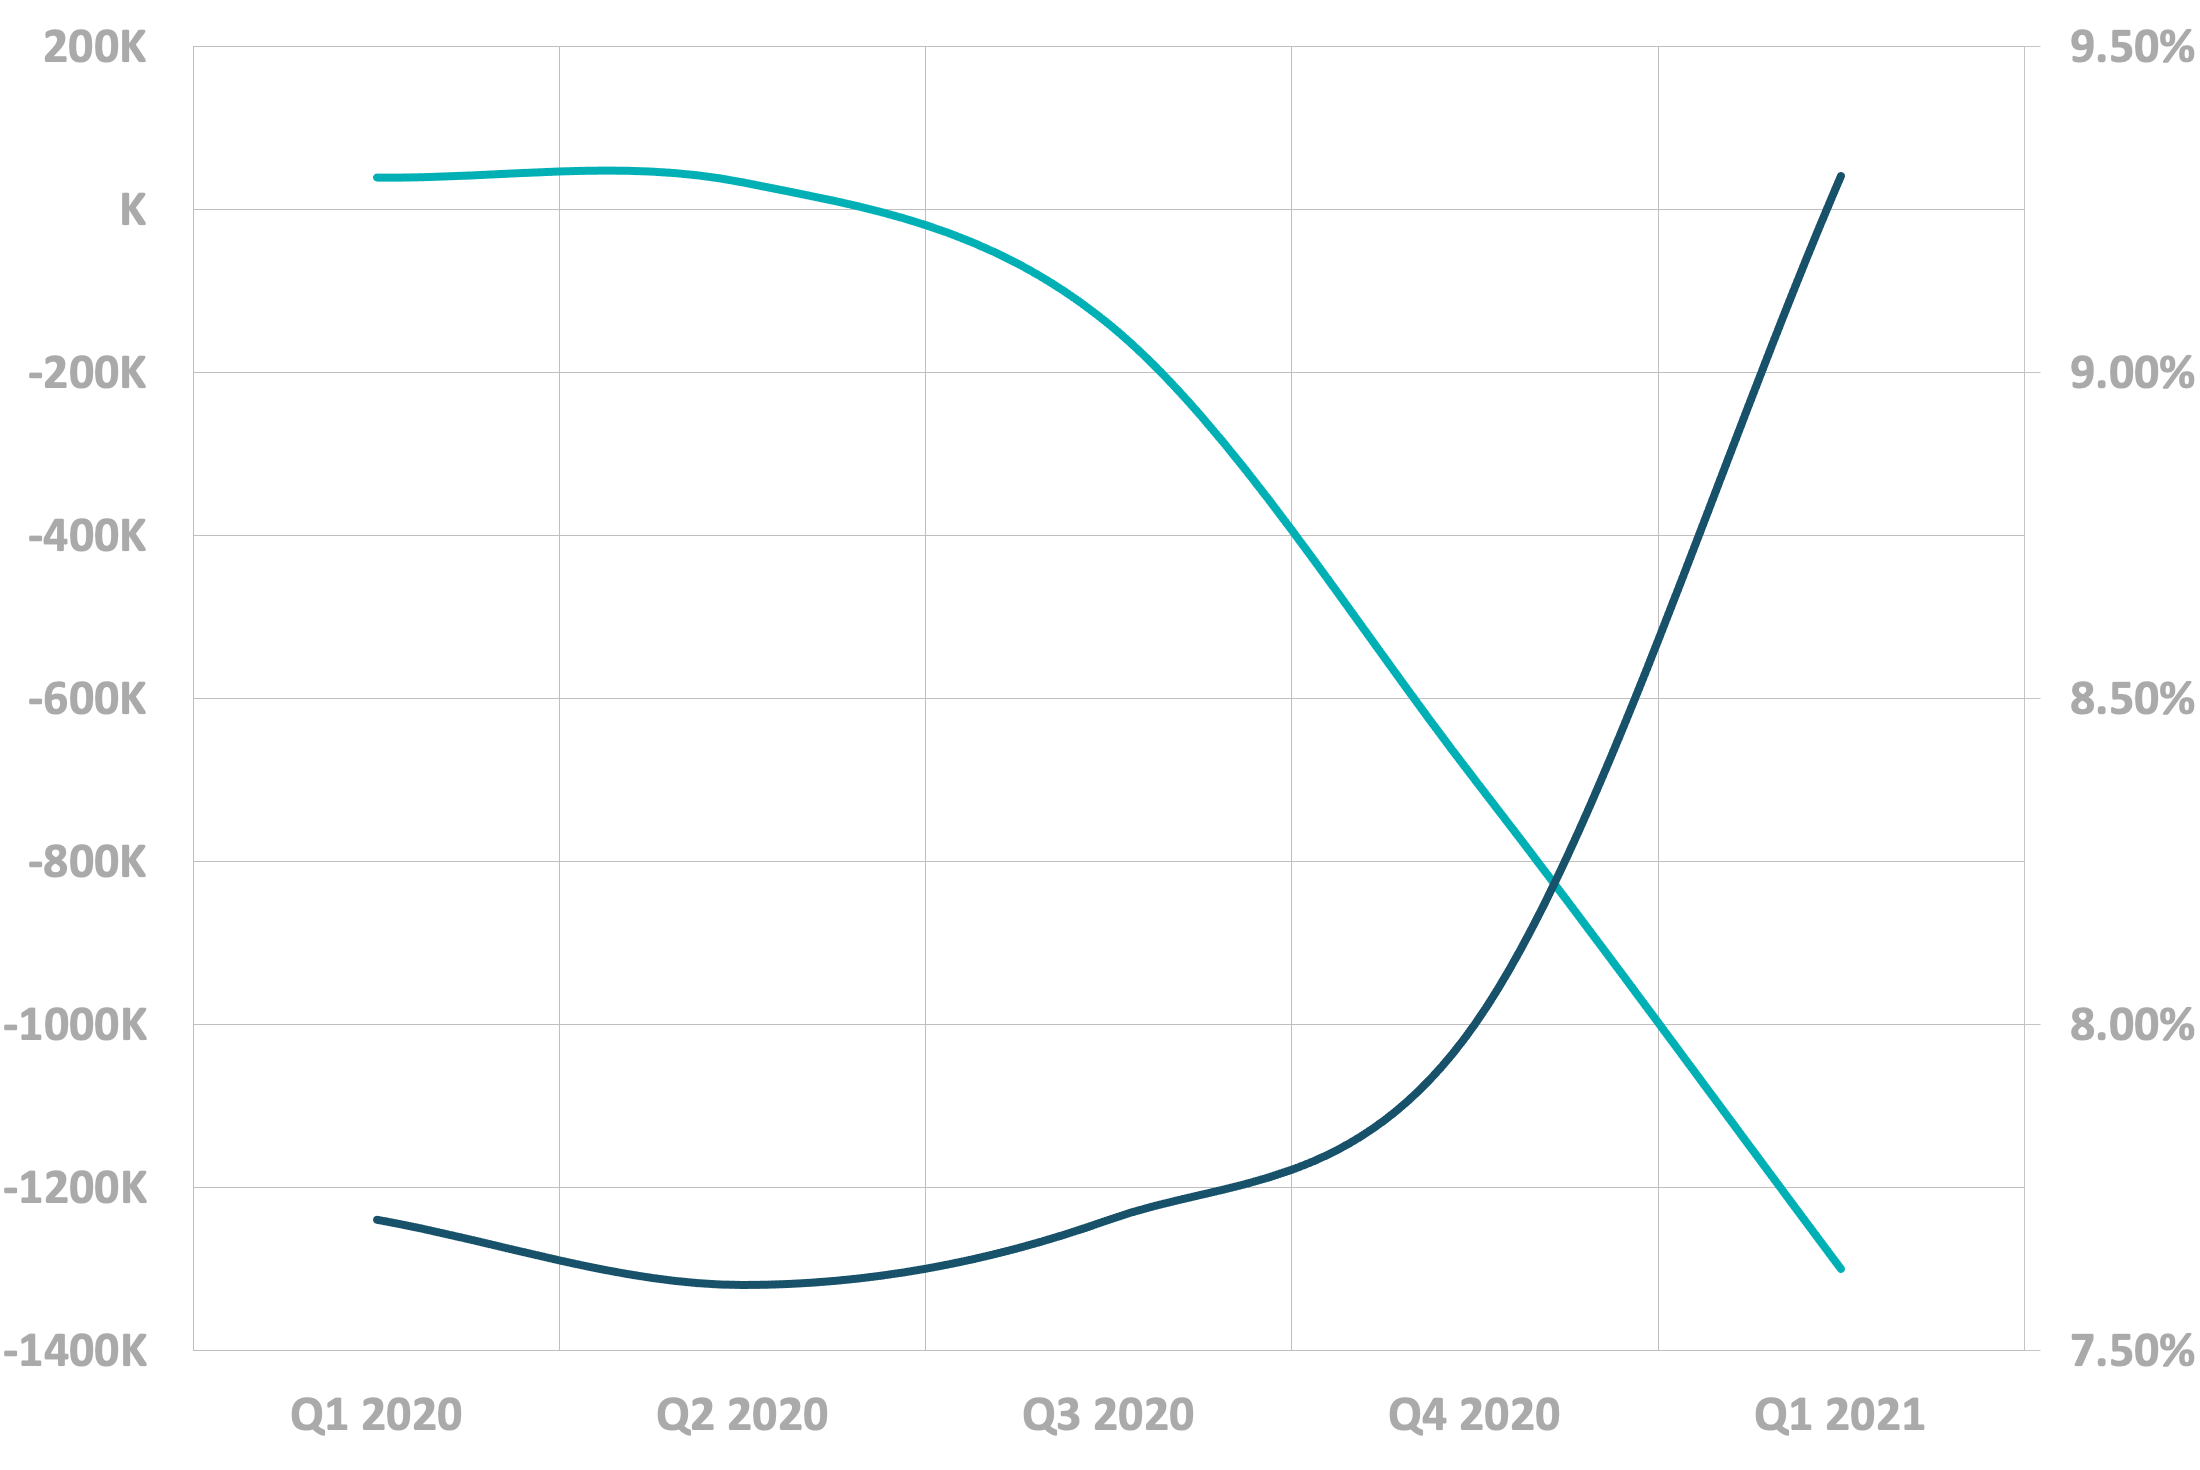
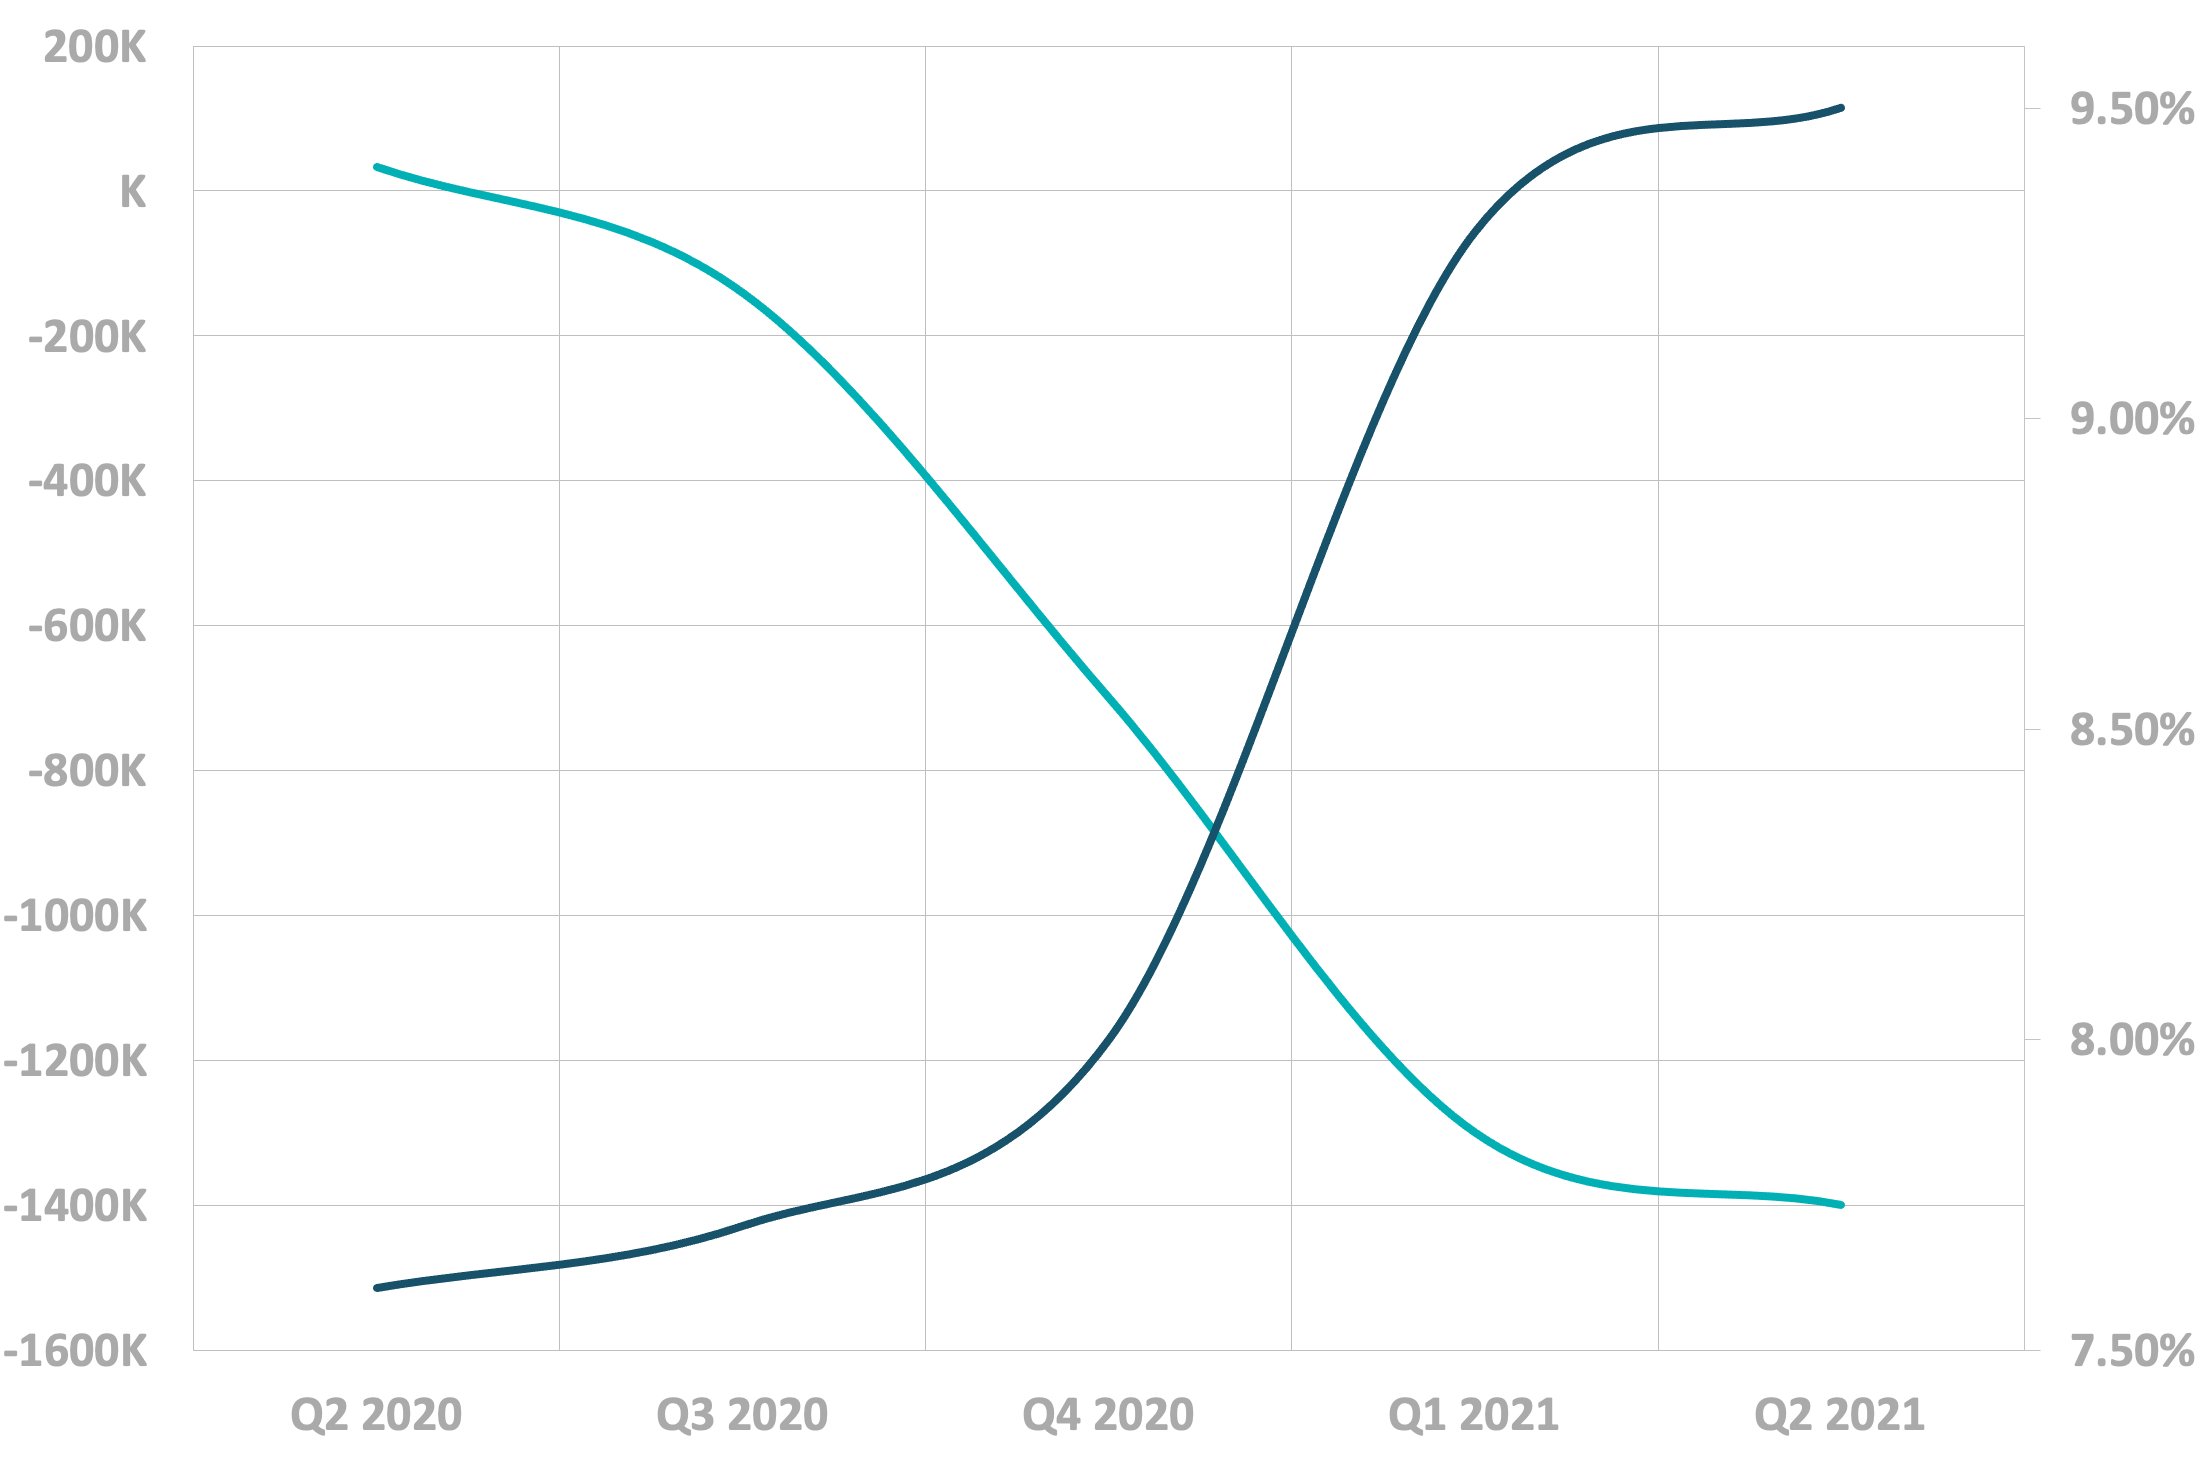
Updated services with latest market report data

diff --git a/services/retail.html b/services/retail.html
@@ -105,16 +105,16 @@
         <hr>
         <div class="row services--market-snapshot">
           <h2>Retail Market Snapshot</h2>
-          <div class="col-md-7 market-snapshot--chart"><img class="img-responsive" src="../img/market-reports-retail.png" alt="Retail Market Snapshot"><a href="../marketing/marketreports/2021/nai_ohio_equities_2021q1.pdf">Download Full 1st Quarter 2021 Market Report</a></div>
+          <div class="col-md-7 market-snapshot--chart"><img class="img-responsive" src="../img/market-reports-retail.png" alt="Retail Market Snapshot"><a href="../marketing/marketreports/2021/nai_ohio_equities_2021q2.pdf">Download Full 2nd Quarter 2021 Market Report</a></div>
           <div class="col-md-5">
             <div class="market-snapshot--content">
-              <p class="market-snapshot--bullet01"><span class="market-snapshot--number snapshot-number01">01</span>The Retail vacancy rate held steady at 3.5% during the first quarter of 2021.</p>
-              <p class="market-snapshot--bullet02"><span class="market-snapshot--number snapshot-number02">02</span>The Retail market had negative absorption of -342,000 SF in the first quarter of 2021.</p>
+              <p class="market-snapshot--bullet01"><span class="market-snapshot--number snapshot-number01">01</span>The Retail vacancy rate rose to 3.6% during the second quarter of 2021.</p>
+              <p class="market-snapshot--bullet02"><span class="market-snapshot--number snapshot-number02">02</span>The Retail market had negative absorption of -210,000 SF in the second quarter of 2021.</p>
               <div class="market-snapshot--header">
-                <h3>1st Quarter 2021</h3>
+                <h3>2nd Quarter 2021</h3>
                 <ul>
-                  <li>The retail sector continues to face significant headwinds related to the coronavirus pandemic, which has accelerated the islocation already challenging retailers and landlords.</li>
-                  <li>“The retail sector offered a mixed bag of activity in the first quarter. Many segments continue retraction while others, primarily discounters, are in expansion mode, as evidenced by locally based Big Lots taking down 41,000 sf in Lancaster. We expect these trends to continue for the foreseeable future.” - <strong>Mike Simpson, President</strong></li>
+                  <li>Acceleration fo e-commerce is one of the reasons brick and mortar retails continue to close.</li>
+                  <li>“While some brick and mortar retailers continue to close, other are finding their stride and expanding, led by the discounters Big Lots and Burkes Outlet. Our forecast predicts rising demand and the continued, albeit slow, retail sector recovery. As is always the case, no matter the reason for economic drag, the strongest sites are best at reflecting headwinds.” - <strong>Mike Simpson, President</strong></li>
                 </ul>
               </div>
             </div>

diff --git a/services/industrial.html b/services/industrial.html
@@ -105,16 +105,16 @@
         <hr>
         <div class="row services--market-snapshot">
           <h2>Industrial Market Snapshot</h2>
-          <div class="col-md-7 market-snapshot--chart"><img class="img-responsive" src="../img/market-reports-industrial.png" alt="Industrial Market Snapshot"><a href="../marketing/marketreports/2021/nai_ohio_equities_2021q1.pdf">Download Full 1st Quarter 2021 Market Report</a></div>
+          <div class="col-md-7 market-snapshot--chart"><img class="img-responsive" src="../img/market-reports-industrial.png" alt="Industrial Market Snapshot"><a href="../marketing/marketreports/2021/nai_ohio_equities_2021q2.pdf">Download Full 2nd Quarter 2021 Market Report</a></div>
           <div class="col-md-5">
             <div class="market-snapshot--content">
-              <p class="market-snapshot--bullet01"><span class="market-snapshot--number snapshot-number01">01</span>The Industrial vacancy rate dropped to 5.4% during the first quarter of 2021.</p>
-              <p class="market-snapshot--bullet02"><span class="market-snapshot--number snapshot-number02">02</span>The Industrial market had positive absorption of 3,300,000 SF in the first quarter of 2021.</p>
+              <p class="market-snapshot--bullet01"><span class="market-snapshot--number snapshot-number01">01</span>The Industrial vacancy rate rose to 5.7% during the second quarter of 2021.</p>
+              <p class="market-snapshot--bullet02"><span class="market-snapshot--number snapshot-number02">02</span>The Industrial market had positive absorption of 650,000 SF in the second quarter of 2021.</p>
               <div class="market-snapshot--header">
-                <h3>1st Quarter 2021</h3>
+                <h3>2nd Quarter 2021</h3>
                 <ul>
-                  <li>Reached record high quarterly absorption, with lack of inventory becoming a problem for users of all sizes. </li>
-                  <li>“The Central Ohio industrial market continues to grow and prove itself as a priority distribution hub. Our market has reach a positive quarterly absorption number that we typically see on an annual basis.” - <strong>Matt Osowski, Industrial Specialist</strong></li>
+                  <li>Demand approached record levels, and supply reached new highs. That momentum continued into 2021, with both absorption and leasing activity hitting the highest levels in the market’s history.</li>
+                  <li>“As available properties become scarce, we see continued cap rate compression. For the first time ever our cap rates are .25-.50% lower than Chicago on average. Landlords continue to test the market with record high rents. We are seeing tenants competing for space and deals getting done above the asking rate.” - <strong>Matt Osowski, Industrial Specialist</strong></li>
                 </ul>
               </div>
             </div>

diff --git a/services/office.html b/services/office.html
@@ -105,16 +105,16 @@
         <hr>
         <div class="row services--market-snapshot">
           <h2>Office Market Snapshot</h2>
-          <div class="col-md-7 market-snapshot--chart"><img class="img-responsive" src="../img/market-reports-office.png" alt="Office Market Snapshot"><a href="../marketing/marketreports/2021/nai_ohio_equities_2021q1.pdf">Download Full 1st Quarter 2021 Market Report</a></div>
+          <div class="col-md-7 market-snapshot--chart"><img class="img-responsive" src="../img/market-reports-office.png" alt="Office Market Snapshot"><a href="../marketing/marketreports/2021/nai_ohio_equities_2021q2.pdf">Download Full 2nd Quarter 2021 Market Report</a></div>
           <div class="col-md-5">
             <div class="market-snapshot--content">
-              <p class="market-snapshot--bullet01"><span class="market-snapshot--number snapshot-number01">01</span>The Office vacancy rate rose to 9.3% during the first quarter of 2021.</p>
-              <p class="market-snapshot--bullet02"><span class="market-snapshot--number snapshot-number02">02</span>The Office market had negative absorption of -1,300,000 SF in the first quarter of 2021.</p>
+              <p class="market-snapshot--bullet01"><span class="market-snapshot--number snapshot-number01">01</span>The Office vacancy rate rose to 9.5% during the second quarter of 2021.</p>
+              <p class="market-snapshot--bullet02"><span class="market-snapshot--number snapshot-number02">02</span>The Office market had negative absorption of -1,400,000 SF in the second quarter of 2021.</p>
               <div class="market-snapshot--header">
-                <h3>1st Quarter 2021</h3>
+                <h3>2nd Quarter 2021</h3>
                 <ul>
-                  <li>Quoted rental rates ended the first quarter at $21.31/SF which is up 0.7% from the previous quarter and 1.3% increase since this time last year. </li>
-                  <li>“While the office market continues to experience volatility, the previously pent up demand and renewed optimism are balancing the construction deliveries and sublease space that are coming online.” - <strong>Matt Gregory, VP Office Brokerage</strong></li>
+                  <li>Quoted rental rates averaged $21.30/SF in the 2nd Quarter, which held steady from the previous quarter.</li>
+                  <li>“Despite lingering effects of the pandemic the office market is slowly recovering. Leasing activity is steadily increasing and demand for high quality space remains strong, especially for new construction in mixed-use developments. We expect this will continue through the remainder of the year.” - <strong>Philip Bird, VP Office Brokerage</strong></li>
                 </ul>
               </div>
             </div>
